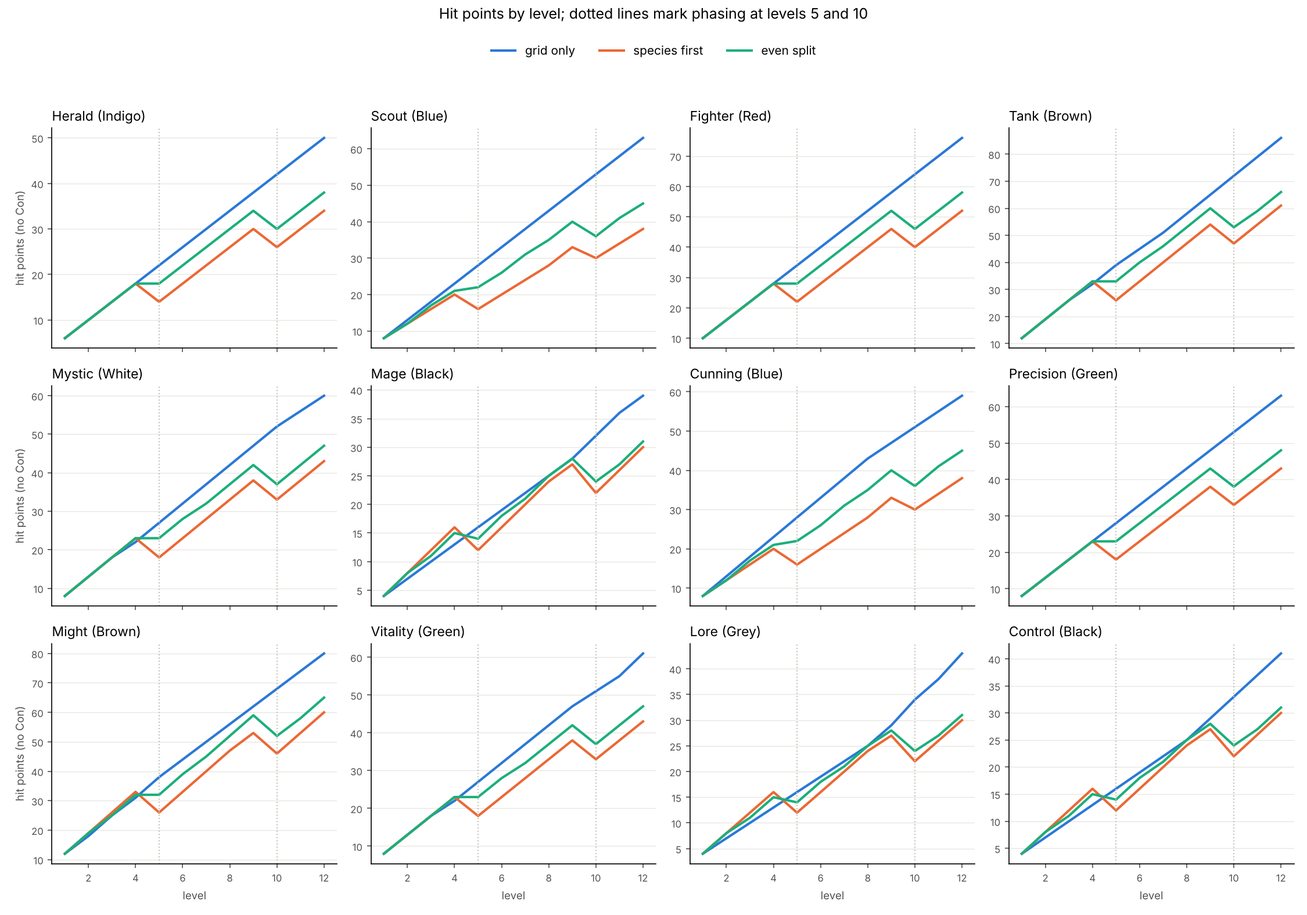
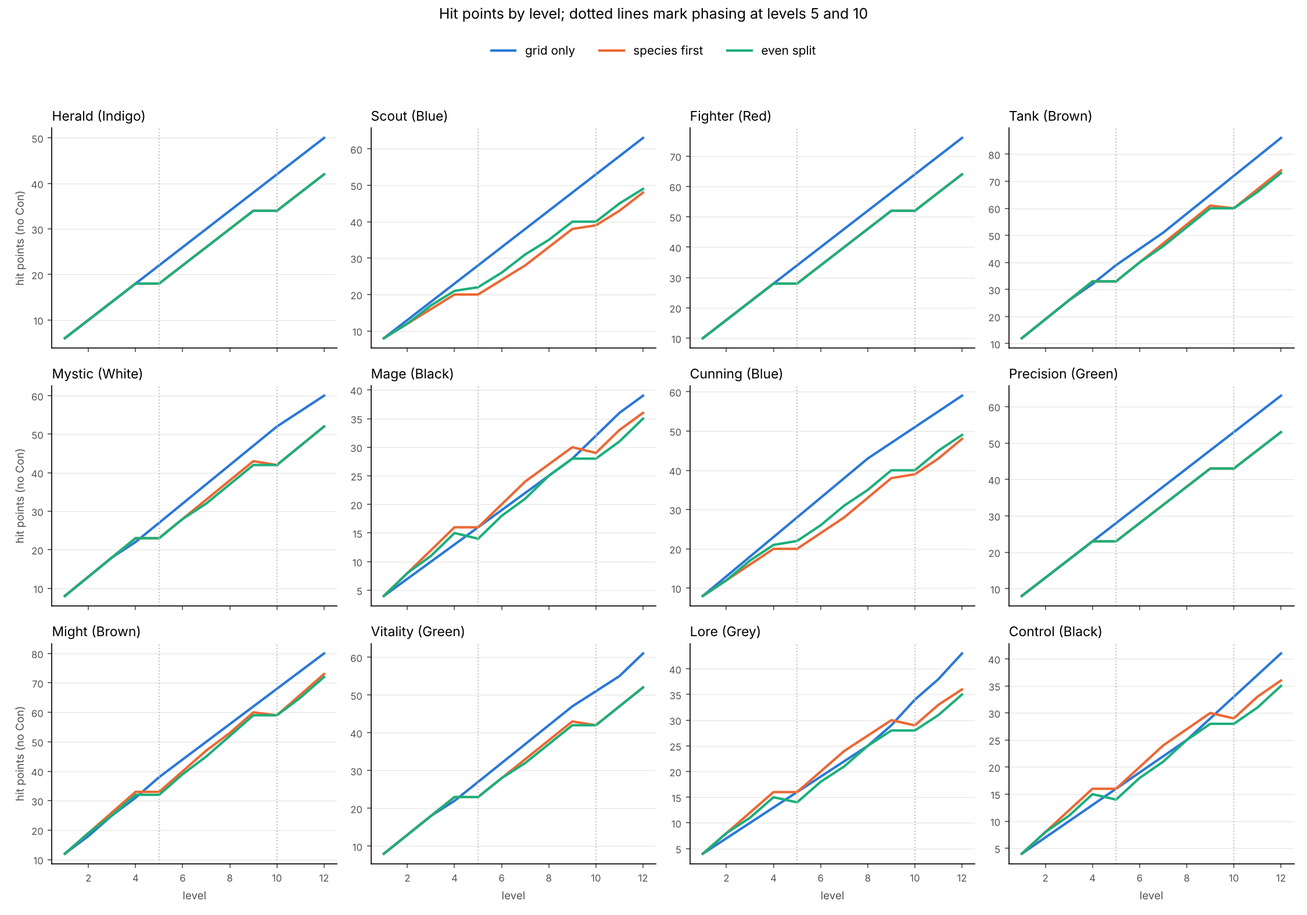
Phasing loses one species ring (replaces halving); power curves rerun
Claude-Session: https://claude.ai/code/session_014HRxeLr7e6EW9qyhZxDWju

diff --git a/canon/analysis/power_curves.py b/canon/analysis/power_curves.py
@@ -7,8 +7,9 @@ power-curves.md (tables) and power-curves.png (small multiples).
 Model (simple, PROPOSED):
 - Level 1: the kit tile and species ring 1 (the base form, no Hit Die).
 - Each level-up: one point, on the grid or the species wheel (rings 2-6).
-- Phasing at 5 and 10 (after that level's point): species points beyond
-  ring 1 are halved, rounded up, and reinvested in the new colour. The new
+- Phasing at 5 and 10 (after that level's point): the character loses one
+  species ring (Troy, 2026-11-12; was halving) and reinvests the rest in the
+  new colour. The new
   colour is modelled with the same numbers, so only the halving shows. Lost
   rings take their Hit Dice, pools and bonuses with them.
 - Hit points: the kit's die in full at level 1, then the SRD fixed value
@@ -129,7 +130,7 @@ def simulate(name, strategy, levels=12, phases=(5, 10)):
                 if L % 2 == 0 and sp < 5: sp += 1
                 else: g += 1
         if L in phases:
-            sp = math.ceil(sp / 2)
+            sp = max(0, sp - 1)
         stats = [tile_stats(h) for h in order[:g]]
         hp = order and tile_stats(order[0])["hd"]
         hp += sum(s["hd"] / 2 + 1 for s in stats[1:])
@@ -142,13 +143,19 @@ def simulate(name, strategy, levels=12, phases=(5, 10)):
 
 
 ARCH = list(KITS) + list(HYBRIDS)
+FINDINGS = ["", "## Findings (Claude, 2026-11-12, one ring lost per phase)", "",
+    "1. **A gentle penalty.** With a phase every five levels, species-first and even-split characters hold **10 of 12** points at level 12 (grid-only keeps 12). Under the earlier halving rule they held 8 and 9.",
+    "2. **Hit points barely move on a phase:** the level's new point offsets the lost ring. At worst they dip by 1 (for example a Mage taking a d4 grid tile the level it loses a d6 ring).",
+    "3. **Bonuses keep pace:** by level 12, species investors have about the same ability +1s and Prof. Ups as grid-only builds; they trail mainly in Attack Up (usually 1 against 2).",
+    "4. **The penalty no longer depends on how much you invested:** losing one ring costs everyone the same, so party members who phase at different times stay within a couple of points of each other.",
+    "5. **Archetypes look alike in shape**; the differences are Hit Die size. The Mage line is the thinnest (39 HP at 12 grid-only, against a 2024 wizard's 50 without Con).", ""]
 STRATS = ["grid only", "species first", "even split"]
 
 if __name__ == "__main__":
     R = {(a, s): simulate(a, s) for a in ARCH for s in STRATS}
     out = ["# Power curves: grid vs species wheel, with phasing (PROPOSED analysis, 2026-11-12)", "",
            "Generated by `power_curves.py`; the model and its assumptions are in that file's docstring.",
-           "Phases at levels **5** and **10** (species points halved, rounded up). Rows show the state **after** that level's phase.",
+           "Phases at levels **5** and **10** (one species ring lost each time). Rows show the state **after** that level's phase.",
            "HP excludes Constitution. **+1s** = ability increases, **PU** = Prof. Up, **AU** = Attack Up. "
            "**Pts** = points still held (level 12 has 12 if nothing was lost).", ""]
     for a in ARCH:
@@ -173,12 +180,7 @@ if __name__ == "__main__":
         r = [R[(a, s)][0][-1] for s in STRATS]
         f = lambda k, fmt="{:.0f}": " / ".join(fmt.format(x[k]) for x in r)
         out.append(f"| {a} | {f('points')} | {f('hp')} | {f('abil')} | {f('prof')} | {f('atk')} |")
-    out += ["", "## Findings (Claude, 2026-11-12, for Troy)", "",
-            "1. **The phasing penalty is large at this rate.** Phasing every five levels, a species-first character holds **8 of 12** points at level 12, an even split **9**; grid-only keeps all 12. Each phase halves whatever is on the species wheel at that moment, so investing there right before a phase is the worst case.",
-            "2. **Hit points drop on phasing**, because lost rings take their Hit Dice: a species-first Herald goes from 18 HP at level 4 to 14 at level 5. That's unusual in D&D, where hit points don't go down on level-up.",
-            "3. **Bonuses fall behind.** By level 12 grid-only builds have 2 ability +1s, about 2 Prof. Ups and 2 Attack Ups; species-first builds have 1 of each.",
-            "4. **Parity holds only without phasing.** With no phase, six deep on either wheel is about even, as designed. The halving makes the species wheel a worse investment the more often a character phases.",
-            "5. **Archetypes look alike in shape**; the differences are Hit Die size. The Mage line is the thinnest (39 HP at 12 grid-only, against a 2024 wizard's 50 without Con).", ""]
+    out += FINDINGS
     open(os.path.join(HERE, "power-curves.md"), "w").write("\n".join(out) + "\n")
 
     import matplotlib.pyplot as plt

diff --git a/canon/analysis/power-curves.md b/canon/analysis/power-curves.md
@@ -1,7 +1,7 @@
 # Power curves: grid vs species wheel, with phasing (PROPOSED analysis, 2026-11-12)
 
 Generated by `power_curves.py`; the model and its assumptions are in that file's docstring.
-Phases at levels **5** and **10** (species points halved, rounded up). Rows show the state **after** that level's phase.
+Phases at levels **5** and **10** (one species ring lost each time). Rows show the state **after** that level's phase.
 HP excludes Constitution. **+1s** = ability increases, **PU** = Prof. Up, **AU** = Attack Up. **Pts** = points still held (level 12 has 12 if nothing was lost).
 
 ## Herald (kit, Indigo)
@@ -10,8 +10,8 @@ Grid path (grid only, in order): 11 → 201 → 301 → 402 → 318 → 423 → 
 | Strategy | L4 HP / ◆ / ★ / +1s / PU / AU / Pts | L5 (phased) | L9 | L10 (phased) | L12 |
 |---|---|---|---|---|---|
 | grid only | 18 / 0 / 16 / 1 / 0 / 0 / 4 | 22 / 0 / 20 / 1 / 0 / 0 / 5 | 38 / 5 / 31 / 1 / 1 / 1 / 9 | 42 / 5 / 35 / 1 / 1 / 2 / 10 | 50 / 5 / 43 / 2 / 2 / 2 / 12 |
-| species first | 18 / 6 / 10 / 1 / 1 / 0 / 4 | 14 / 4 / 8 / 0 / 1 / 0 / 3 | 30 / 10 / 18 / 1 / 1 / 1 / 7 | 26 / 6 / 18 / 1 / 1 / 0 / 6 | 34 / 10 / 22 / 1 / 1 / 1 / 8 |
-| even split | 18 / 4 / 12 / 0 / 1 / 0 / 4 | 18 / 2 / 14 / 0 / 0 / 0 / 4 | 34 / 6 / 26 / 2 / 1 / 0 / 8 | 30 / 4 / 24 / 1 / 1 / 0 / 7 | 38 / 8 / 28 / 2 / 2 / 0 / 9 |
+| species first | 18 / 6 / 10 / 1 / 1 / 0 / 4 | 18 / 6 / 10 / 1 / 1 / 0 / 4 | 34 / 10 / 22 / 1 / 1 / 1 / 8 | 34 / 8 / 24 / 2 / 1 / 0 / 8 | 42 / 10 / 30 / 2 / 1 / 1 / 10 |
+| even split | 18 / 4 / 12 / 0 / 1 / 0 / 4 | 18 / 2 / 14 / 0 / 0 / 0 / 4 | 34 / 6 / 26 / 2 / 1 / 0 / 8 | 34 / 6 / 26 / 2 / 1 / 0 / 8 | 42 / 10 / 30 / 2 / 2 / 0 / 10 |
 
 ## Scout (kit, Blue)
 Grid path (grid only, in order): 12 → 203 → 305 → 407 → 406 → 304 → 405 → 506 → 607 → 606 → 508 → 610
@@ -19,8 +19,8 @@ Grid path (grid only, in order): 12 → 203 → 305 → 407 → 406 → 304 → 
 | Strategy | L4 HP / ◆ / ★ / +1s / PU / AU / Pts | L5 (phased) | L9 | L10 (phased) | L12 |
 |---|---|---|---|---|---|
 | grid only | 23 / 0 / 16 / 0 / 1 / 0 / 4 | 28 / 0 / 20 / 1 / 1 / 0 / 5 | 48 / 0 / 36 / 1 / 2 / 1 / 9 | 53 / 0 / 40 / 2 / 2 / 1 / 10 | 63 / 0 / 48 / 2 / 2 / 2 / 12 |
-| species first | 20 / 6 / 10 / 1 / 1 / 0 / 4 | 16 / 4 / 8 / 0 / 1 / 0 / 3 | 33 / 10 / 18 / 1 / 1 / 1 / 7 | 30 / 6 / 18 / 1 / 1 / 0 / 6 | 38 / 10 / 22 / 1 / 1 / 1 / 8 |
-| even split | 21 / 4 / 12 / 0 / 1 / 0 / 4 | 22 / 2 / 14 / 0 / 0 / 0 / 4 | 40 / 6 / 26 / 2 / 2 / 0 / 8 | 36 / 4 / 24 / 1 / 2 / 0 / 7 | 45 / 6 / 30 / 2 / 2 / 0 / 9 |
+| species first | 20 / 6 / 10 / 1 / 1 / 0 / 4 | 20 / 6 / 10 / 1 / 1 / 0 / 4 | 38 / 10 / 22 / 1 / 1 / 1 / 8 | 39 / 8 / 24 / 1 / 2 / 0 / 8 | 48 / 10 / 30 / 2 / 2 / 1 / 10 |
+| even split | 21 / 4 / 12 / 0 / 1 / 0 / 4 | 22 / 2 / 14 / 0 / 0 / 0 / 4 | 40 / 6 / 26 / 2 / 2 / 0 / 8 | 40 / 6 / 26 / 2 / 2 / 0 / 8 | 49 / 8 / 32 / 2 / 2 / 0 / 10 |
 
 ## Fighter (kit, Red)
 Grid path (grid only, in order): 13 → 205 → 307 → 410 → 409 → 510 → 612 → 511 → 614 → 613 → 513 → 616
@@ -28,8 +28,8 @@ Grid path (grid only, in order): 13 → 205 → 307 → 410 → 409 → 510 → 
 | Strategy | L4 HP / ◆ / ★ / +1s / PU / AU / Pts | L5 (phased) | L9 | L10 (phased) | L12 |
 |---|---|---|---|---|---|
 | grid only | 28 / 0 / 8 / 1 / 0 / 0 / 4 | 34 / 0 / 10 / 1 / 0 / 0 / 5 | 58 / 0 / 18 / 2 / 0 / 2 / 9 | 64 / 0 / 20 / 2 / 1 / 2 / 10 | 76 / 0 / 23 / 2 / 1 / 3 / 12 |
-| species first | 28 / 0 / 11 / 1 / 1 / 0 / 4 | 22 / 0 / 8 / 0 / 1 / 0 / 3 | 46 / 0 / 19 / 1 / 1 / 1 / 7 | 40 / 0 / 15 / 1 / 1 / 0 / 6 | 52 / 0 / 21 / 1 / 1 / 1 / 8 |
-| even split | 28 / 0 / 10 / 0 / 1 / 0 / 4 | 28 / 0 / 9 / 0 / 0 / 0 / 4 | 52 / 0 / 19 / 2 / 1 / 0 / 8 | 46 / 0 / 16 / 1 / 1 / 0 / 7 | 58 / 0 / 21 / 2 / 1 / 1 / 9 |
+| species first | 28 / 0 / 11 / 1 / 1 / 0 / 4 | 28 / 0 / 11 / 1 / 1 / 0 / 4 | 52 / 0 / 21 / 1 / 1 / 1 / 8 | 52 / 0 / 20 / 2 / 1 / 0 / 8 | 64 / 0 / 25 / 2 / 1 / 1 / 10 |
+| even split | 28 / 0 / 10 / 0 / 1 / 0 / 4 | 28 / 0 / 9 / 0 / 0 / 0 / 4 | 52 / 0 / 19 / 2 / 1 / 0 / 8 | 52 / 0 / 19 / 2 / 1 / 0 / 8 | 64 / 0 / 24 / 2 / 1 / 1 / 10 |
 
 ## Tank (kit, Brown)
 Grid path (grid only, in order): 14 → 207 → 311 → 415 → 414 → 518 → 622 → 310 → 413 → 516 → 619 → 618
@@ -37,8 +37,8 @@ Grid path (grid only, in order): 14 → 207 → 311 → 415 → 414 → 518 → 
 | Strategy | L4 HP / ◆ / ★ / +1s / PU / AU / Pts | L5 (phased) | L9 | L10 (phased) | L12 |
 |---|---|---|---|---|---|
 | grid only | 32 / 3 / 0 / 0 / 1 / 0 / 4 | 39 / 4 / 0 / 1 / 1 / 0 / 5 | 65 / 8 / 0 / 1 / 1 / 1 / 9 | 72 / 8 / 0 / 1 / 1 / 2 / 10 | 86 / 8 / 0 / 2 / 2 / 2 / 12 |
-| species first | 33 / 3 / 3 / 1 / 1 / 0 / 4 | 26 / 2 / 2 / 0 / 1 / 0 / 3 | 54 / 5 / 5 / 1 / 1 / 1 / 7 | 47 / 4 / 3 / 1 / 1 / 0 / 6 | 61 / 6 / 5 / 1 / 1 / 1 / 8 |
-| even split | 33 / 2 / 2 / 0 / 1 / 0 / 4 | 33 / 2 / 1 / 0 / 0 / 0 / 4 | 60 / 7 / 3 / 2 / 2 / 0 / 8 | 53 / 6 / 2 / 1 / 2 / 0 / 7 | 66 / 9 / 3 / 2 / 2 / 0 / 9 |
+| species first | 33 / 3 / 3 / 1 / 1 / 0 / 4 | 33 / 3 / 3 / 1 / 1 / 0 / 4 | 61 / 6 / 5 / 1 / 1 / 1 / 8 | 60 / 7 / 4 / 1 / 2 / 0 / 8 | 74 / 9 / 5 / 2 / 2 / 1 / 10 |
+| even split | 33 / 2 / 2 / 0 / 1 / 0 / 4 | 33 / 2 / 1 / 0 / 0 / 0 / 4 | 60 / 7 / 3 / 2 / 2 / 0 / 8 | 60 / 7 / 3 / 2 / 2 / 0 / 8 | 73 / 10 / 4 / 2 / 2 / 0 / 10 |
 
 ## Mystic (kit, White)
 Grid path (grid only, in order): 15 → 209 → 314 → 419 → 418 → 313 → 417 → 521 → 625 → 624 → 523 → 628
@@ -46,8 +46,8 @@ Grid path (grid only, in order): 15 → 209 → 314 → 419 → 418 → 313 → 
 | Strategy | L4 HP / ◆ / ★ / +1s / PU / AU / Pts | L5 (phased) | L9 | L10 (phased) | L12 |
 |---|---|---|---|---|---|
 | grid only | 22 / 16 / 0 / 0 / 1 / 0 / 4 | 27 / 20 / 0 / 1 / 1 / 0 / 5 | 47 / 36 / 0 / 1 / 2 / 1 / 9 | 52 / 40 / 0 / 2 / 2 / 1 / 10 | 60 / 48 / 0 / 2 / 2 / 2 / 12 |
-| species first | 23 / 13 / 3 / 1 / 1 / 0 / 4 | 18 / 10 / 2 / 0 / 1 / 0 / 3 | 38 / 23 / 5 / 1 / 1 / 1 / 7 | 33 / 21 / 3 / 1 / 1 / 0 / 6 | 43 / 27 / 5 / 1 / 1 / 1 / 8 |
-| even split | 23 / 14 / 2 / 0 / 1 / 0 / 4 | 23 / 15 / 1 / 0 / 0 / 0 / 4 | 42 / 29 / 3 / 2 / 2 / 0 / 8 | 37 / 26 / 2 / 1 / 2 / 0 / 7 | 47 / 33 / 3 / 2 / 2 / 0 / 9 |
+| species first | 23 / 13 / 3 / 1 / 1 / 0 / 4 | 23 / 13 / 3 / 1 / 1 / 0 / 4 | 43 / 27 / 5 / 1 / 1 / 1 / 8 | 42 / 28 / 4 / 1 / 2 / 0 / 8 | 52 / 35 / 5 / 2 / 2 / 1 / 10 |
+| even split | 23 / 14 / 2 / 0 / 1 / 0 / 4 | 23 / 15 / 1 / 0 / 0 / 0 / 4 | 42 / 29 / 3 / 2 / 2 / 0 / 8 | 42 / 29 / 3 / 2 / 2 / 0 / 8 | 52 / 36 / 4 / 2 / 2 / 0 / 10 |
 
 ## Mage (kit, Black)
 Grid path (grid only, in order): 16 → 211 → 316 → 422 → 421 → 526 → 631 → 630 → 420 → 524 → 629 → 632
@@ -55,8 +55,8 @@ Grid path (grid only, in order): 16 → 211 → 316 → 422 → 421 → 526 → 
 | Strategy | L4 HP / ◆ / ★ / +1s / PU / AU / Pts | L5 (phased) | L9 | L10 (phased) | L12 |
 |---|---|---|---|---|---|
 | grid only | 13 / 20 / 0 / 1 / 0 / 0 / 4 | 16 / 25 / 0 / 1 / 0 / 0 / 5 | 28 / 45 / 0 / 2 / 1 / 1 / 9 | 32 / 50 / 0 / 2 / 1 / 1 / 10 | 39 / 60 / 0 / 2 / 1 / 1 / 12 |
-| species first | 16 / 17 / 0 / 1 / 1 / 0 / 4 | 12 / 13 / 0 / 0 / 1 / 0 / 3 | 27 / 30 / 0 / 1 / 1 / 1 / 7 | 22 / 27 / 0 / 1 / 1 / 0 / 6 | 30 / 35 / 0 / 1 / 1 / 1 / 8 |
-| even split | 15 / 18 / 0 / 0 / 1 / 0 / 4 | 14 / 19 / 0 / 0 / 0 / 0 / 4 | 28 / 37 / 0 / 2 / 1 / 0 / 8 | 24 / 33 / 0 / 1 / 1 / 0 / 7 | 31 / 42 / 0 / 2 / 1 / 1 / 9 |
+| species first | 16 / 17 / 0 / 1 / 1 / 0 / 4 | 16 / 17 / 0 / 1 / 1 / 0 / 4 | 30 / 35 / 0 / 1 / 1 / 1 / 8 | 29 / 36 / 0 / 2 / 1 / 0 / 8 | 36 / 45 / 0 / 2 / 1 / 1 / 10 |
+| even split | 15 / 18 / 0 / 0 / 1 / 0 / 4 | 14 / 19 / 0 / 0 / 0 / 0 / 4 | 28 / 37 / 0 / 2 / 1 / 0 / 8 | 28 / 37 / 0 / 2 / 1 / 0 / 8 | 35 / 46 / 0 / 2 / 1 / 1 / 10 |
 
 ## Cunning (hybrid, Blue)
 Grid path (grid only, in order): 12 → 203 → 304 → 406 → 405 → 506 → 607 → 606 → 202 → 302 → 403 → 402
@@ -64,8 +64,8 @@ Grid path (grid only, in order): 12 → 203 → 304 → 406 → 405 → 506 → 
 | Strategy | L4 HP / ◆ / ★ / +1s / PU / AU / Pts | L5 (phased) | L9 | L10 (phased) | L12 |
 |---|---|---|---|---|---|
 | grid only | 23 / 0 / 16 / 1 / 0 / 0 / 4 | 28 / 0 / 20 / 1 / 0 / 0 / 5 | 47 / 0 / 36 / 2 / 1 / 1 / 9 | 51 / 0 / 40 / 2 / 1 / 1 / 10 | 59 / 0 / 48 / 3 / 2 / 1 / 12 |
-| species first | 20 / 6 / 10 / 1 / 1 / 0 / 4 | 16 / 4 / 8 / 0 / 1 / 0 / 3 | 33 / 10 / 18 / 1 / 1 / 1 / 7 | 30 / 6 / 18 / 1 / 1 / 0 / 6 | 38 / 10 / 22 / 1 / 1 / 1 / 8 |
-| even split | 21 / 4 / 12 / 0 / 1 / 0 / 4 | 22 / 2 / 14 / 0 / 0 / 0 / 4 | 40 / 6 / 26 / 2 / 1 / 0 / 8 | 36 / 4 / 24 / 1 / 1 / 0 / 7 | 45 / 6 / 30 / 2 / 1 / 1 / 9 |
+| species first | 20 / 6 / 10 / 1 / 1 / 0 / 4 | 20 / 6 / 10 / 1 / 1 / 0 / 4 | 38 / 10 / 22 / 1 / 1 / 1 / 8 | 39 / 8 / 24 / 2 / 1 / 0 / 8 | 48 / 10 / 30 / 2 / 1 / 1 / 10 |
+| even split | 21 / 4 / 12 / 0 / 1 / 0 / 4 | 22 / 2 / 14 / 0 / 0 / 0 / 4 | 40 / 6 / 26 / 2 / 1 / 0 / 8 | 40 / 6 / 26 / 2 / 1 / 0 / 8 | 49 / 8 / 32 / 2 / 1 / 1 / 10 |
 
 ## Precision (hybrid, Green)
 Grid path (grid only, in order): 12 → 204 → 203 → 305 → 407 → 406 → 304 → 405 → 506 → 607 → 508 → 610
@@ -73,8 +73,8 @@ Grid path (grid only, in order): 12 → 204 → 203 → 305 → 407 → 406 → 
 | Strategy | L4 HP / ◆ / ★ / +1s / PU / AU / Pts | L5 (phased) | L9 | L10 (phased) | L12 |
 |---|---|---|---|---|---|
 | grid only | 23 / 0 / 16 / 0 / 0 / 0 / 4 | 28 / 0 / 20 / 0 / 1 / 0 / 5 | 48 / 0 / 36 / 1 / 1 / 1 / 9 | 53 / 0 / 40 / 1 / 2 / 1 / 10 | 63 / 0 / 48 / 1 / 2 / 2 / 12 |
-| species first | 23 / 6 / 10 / 1 / 1 / 0 / 4 | 18 / 4 / 8 / 0 / 1 / 0 / 3 | 38 / 10 / 18 / 1 / 1 / 1 / 7 | 33 / 6 / 18 / 1 / 1 / 0 / 6 | 43 / 10 / 22 / 1 / 1 / 1 / 8 |
-| even split | 23 / 4 / 12 / 0 / 1 / 0 / 4 | 23 / 2 / 14 / 0 / 0 / 0 / 4 | 43 / 6 / 26 / 1 / 2 / 0 / 8 | 38 / 4 / 24 / 0 / 2 / 0 / 7 | 48 / 6 / 30 / 2 / 2 / 0 / 9 |
+| species first | 23 / 6 / 10 / 1 / 1 / 0 / 4 | 23 / 6 / 10 / 1 / 1 / 0 / 4 | 43 / 10 / 22 / 1 / 1 / 1 / 8 | 43 / 8 / 24 / 1 / 1 / 0 / 8 | 53 / 10 / 30 / 1 / 2 / 1 / 10 |
+| even split | 23 / 4 / 12 / 0 / 1 / 0 / 4 | 23 / 2 / 14 / 0 / 0 / 0 / 4 | 43 / 6 / 26 / 1 / 2 / 0 / 8 | 43 / 6 / 26 / 1 / 2 / 0 / 8 | 53 / 8 / 32 / 2 / 2 / 0 / 10 |
 
 ## Might (hybrid, Brown)
 Grid path (grid only, in order): 14 → 208 → 311 → 415 → 414 → 518 → 622 → 206 → 308 → 411 → 513 → 616
@@ -82,8 +82,8 @@ Grid path (grid only, in order): 14 → 208 → 311 → 415 → 414 → 518 → 
 | Strategy | L4 HP / ◆ / ★ / +1s / PU / AU / Pts | L5 (phased) | L9 | L10 (phased) | L12 |
 |---|---|---|---|---|---|
 | grid only | 31 / 5 / 0 / 0 / 1 / 0 / 4 | 38 / 6 / 0 / 1 / 1 / 0 / 5 | 62 / 10 / 3 / 1 / 1 / 1 / 9 | 68 / 10 / 4 / 1 / 2 / 1 / 10 | 80 / 10 / 7 / 1 / 2 / 2 / 12 |
-| species first | 33 / 3 / 3 / 1 / 1 / 0 / 4 | 26 / 2 / 2 / 0 / 1 / 0 / 3 | 53 / 7 / 5 / 1 / 1 / 1 / 7 | 46 / 6 / 3 / 1 / 1 / 0 / 6 | 60 / 8 / 5 / 1 / 1 / 1 / 8 |
-| even split | 32 / 4 / 2 / 0 / 1 / 0 / 4 | 32 / 4 / 1 / 0 / 0 / 0 / 4 | 59 / 9 / 3 / 2 / 2 / 0 / 8 | 52 / 8 / 2 / 1 / 2 / 0 / 7 | 65 / 11 / 3 / 2 / 2 / 0 / 9 |
+| species first | 33 / 3 / 3 / 1 / 1 / 0 / 4 | 33 / 3 / 3 / 1 / 1 / 0 / 4 | 60 / 8 / 5 / 1 / 1 / 1 / 8 | 59 / 9 / 4 / 1 / 2 / 0 / 8 | 73 / 11 / 5 / 2 / 2 / 1 / 10 |
+| even split | 32 / 4 / 2 / 0 / 1 / 0 / 4 | 32 / 4 / 1 / 0 / 0 / 0 / 4 | 59 / 9 / 3 / 2 / 2 / 0 / 8 | 59 / 9 / 3 / 2 / 2 / 0 / 8 | 72 / 12 / 4 / 2 / 2 / 0 / 10 |
 
 ## Vitality (hybrid, Green)
 Grid path (grid only, in order): 15 → 209 → 314 → 419 → 418 → 313 → 417 → 521 → 625 → 523 → 628 → 208
@@ -91,8 +91,8 @@ Grid path (grid only, in order): 15 → 209 → 314 → 419 → 418 → 313 → 
 | Strategy | L4 HP / ◆ / ★ / +1s / PU / AU / Pts | L5 (phased) | L9 | L10 (phased) | L12 |
 |---|---|---|---|---|---|
 | grid only | 22 / 16 / 0 / 0 / 1 / 0 / 4 | 27 / 20 / 0 / 1 / 1 / 0 / 5 | 47 / 36 / 0 / 1 / 2 / 1 / 9 | 51 / 40 / 0 / 1 / 2 / 1 / 10 | 61 / 46 / 0 / 1 / 2 / 2 / 12 |
-| species first | 23 / 10 / 6 / 1 / 1 / 0 / 4 | 18 / 8 / 4 / 0 / 1 / 0 / 3 | 38 / 18 / 10 / 1 / 1 / 1 / 7 | 33 / 18 / 6 / 1 / 1 / 0 / 6 | 43 / 22 / 10 / 1 / 1 / 1 / 8 |
-| even split | 23 / 12 / 4 / 0 / 1 / 0 / 4 | 23 / 14 / 2 / 0 / 0 / 0 / 4 | 42 / 26 / 6 / 2 / 2 / 0 / 8 | 37 / 24 / 4 / 1 / 2 / 0 / 7 | 47 / 30 / 6 / 2 / 2 / 0 / 9 |
+| species first | 23 / 10 / 6 / 1 / 1 / 0 / 4 | 23 / 10 / 6 / 1 / 1 / 0 / 4 | 43 / 22 / 10 / 1 / 1 / 1 / 8 | 42 / 24 / 8 / 1 / 2 / 0 / 8 | 52 / 30 / 10 / 2 / 2 / 1 / 10 |
+| even split | 23 / 12 / 4 / 0 / 1 / 0 / 4 | 23 / 14 / 2 / 0 / 0 / 0 / 4 | 42 / 26 / 6 / 2 / 2 / 0 / 8 | 42 / 26 / 6 / 2 / 2 / 0 / 8 | 52 / 32 / 8 / 2 / 2 / 0 / 10 |
 
 ## Lore (hybrid, Grey)
 Grid path (grid only, in order): 16 → 211 → 316 → 422 → 421 → 526 → 631 → 630 → 210 → 314 → 419 → 418
@@ -100,8 +100,8 @@ Grid path (grid only, in order): 16 → 211 → 316 → 422 → 421 → 526 → 
 | Strategy | L4 HP / ◆ / ★ / +1s / PU / AU / Pts | L5 (phased) | L9 | L10 (phased) | L12 |
 |---|---|---|---|---|---|
 | grid only | 13 / 20 / 0 / 1 / 0 / 0 / 4 | 16 / 25 / 0 / 1 / 0 / 0 / 5 | 29 / 44 / 0 / 2 / 1 / 1 / 9 | 34 / 48 / 0 / 2 / 1 / 1 / 10 | 43 / 56 / 0 / 3 / 2 / 1 / 12 |
-| species first | 16 / 17 / 0 / 1 / 1 / 0 / 4 | 12 / 13 / 0 / 0 / 1 / 0 / 3 | 27 / 30 / 0 / 1 / 1 / 1 / 7 | 22 / 27 / 0 / 1 / 1 / 0 / 6 | 30 / 35 / 0 / 1 / 1 / 1 / 8 |
-| even split | 15 / 18 / 0 / 0 / 1 / 0 / 4 | 14 / 19 / 0 / 0 / 0 / 0 / 4 | 28 / 37 / 0 / 2 / 1 / 0 / 8 | 24 / 33 / 0 / 1 / 1 / 0 / 7 | 31 / 42 / 0 / 2 / 1 / 1 / 9 |
+| species first | 16 / 17 / 0 / 1 / 1 / 0 / 4 | 16 / 17 / 0 / 1 / 1 / 0 / 4 | 30 / 35 / 0 / 1 / 1 / 1 / 8 | 29 / 36 / 0 / 2 / 1 / 0 / 8 | 36 / 45 / 0 / 2 / 1 / 1 / 10 |
+| even split | 15 / 18 / 0 / 0 / 1 / 0 / 4 | 14 / 19 / 0 / 0 / 0 / 0 / 4 | 28 / 37 / 0 / 2 / 1 / 0 / 8 | 28 / 37 / 0 / 2 / 1 / 0 / 8 | 35 / 46 / 0 / 2 / 1 / 1 / 10 |
 
 ## Control (hybrid, Black)
 Grid path (grid only, in order): 16 → 211 → 316 → 422 → 421 → 526 → 631 → 630 → 528 → 634 → 633 → 212
@@ -109,31 +109,31 @@ Grid path (grid only, in order): 16 → 211 → 316 → 422 → 421 → 526 → 
 | Strategy | L4 HP / ◆ / ★ / +1s / PU / AU / Pts | L5 (phased) | L9 | L10 (phased) | L12 |
 |---|---|---|---|---|---|
 | grid only | 13 / 20 / 0 / 1 / 0 / 0 / 4 | 16 / 25 / 0 / 1 / 0 / 0 / 5 | 29 / 44 / 1 / 2 / 1 / 1 / 9 | 33 / 46 / 3 / 2 / 1 / 2 / 10 | 41 / 52 / 6 / 2 / 1 / 2 / 12 |
-| species first | 16 / 17 / 0 / 1 / 1 / 0 / 4 | 12 / 13 / 0 / 0 / 1 / 0 / 3 | 27 / 30 / 0 / 1 / 1 / 1 / 7 | 22 / 27 / 0 / 1 / 1 / 0 / 6 | 30 / 35 / 0 / 1 / 1 / 1 / 8 |
-| even split | 15 / 18 / 0 / 0 / 1 / 0 / 4 | 14 / 19 / 0 / 0 / 0 / 0 / 4 | 28 / 37 / 0 / 2 / 1 / 0 / 8 | 24 / 33 / 0 / 1 / 1 / 0 / 7 | 31 / 42 / 0 / 2 / 1 / 1 / 9 |
+| species first | 16 / 17 / 0 / 1 / 1 / 0 / 4 | 16 / 17 / 0 / 1 / 1 / 0 / 4 | 30 / 35 / 0 / 1 / 1 / 1 / 8 | 29 / 36 / 0 / 2 / 1 / 0 / 8 | 36 / 45 / 0 / 2 / 1 / 1 / 10 |
+| even split | 15 / 18 / 0 / 0 / 1 / 0 / 4 | 14 / 19 / 0 / 0 / 0 / 0 / 4 | 28 / 37 / 0 / 2 / 1 / 0 / 8 | 28 / 37 / 0 / 2 / 1 / 0 / 8 | 35 / 46 / 0 / 2 / 1 / 1 / 10 |
 
 ## Summary at level 12
 
 | Archetype | Pts held (grid only / species first / even) | HP | +1s | Prof. Up | Attack Up |
 |---|---|---|---|---|---|
-| Herald | 12 / 8 / 9 | 50 / 34 / 38 | 2 / 1 / 2 | 2 / 1 / 2 | 2 / 1 / 0 |
-| Scout | 12 / 8 / 9 | 63 / 38 / 45 | 2 / 1 / 2 | 2 / 1 / 2 | 2 / 1 / 0 |
-| Fighter | 12 / 8 / 9 | 76 / 52 / 58 | 2 / 1 / 2 | 1 / 1 / 1 | 3 / 1 / 1 |
-| Tank | 12 / 8 / 9 | 86 / 61 / 66 | 2 / 1 / 2 | 2 / 1 / 2 | 2 / 1 / 0 |
-| Mystic | 12 / 8 / 9 | 60 / 43 / 47 | 2 / 1 / 2 | 2 / 1 / 2 | 2 / 1 / 0 |
-| Mage | 12 / 8 / 9 | 39 / 30 / 31 | 2 / 1 / 2 | 1 / 1 / 1 | 1 / 1 / 1 |
-| Cunning | 12 / 8 / 9 | 59 / 38 / 45 | 3 / 1 / 2 | 2 / 1 / 1 | 1 / 1 / 1 |
-| Precision | 12 / 8 / 9 | 63 / 43 / 48 | 1 / 1 / 2 | 2 / 1 / 2 | 2 / 1 / 0 |
-| Might | 12 / 8 / 9 | 80 / 60 / 65 | 1 / 1 / 2 | 2 / 1 / 2 | 2 / 1 / 0 |
-| Vitality | 12 / 8 / 9 | 61 / 43 / 47 | 1 / 1 / 2 | 2 / 1 / 2 | 2 / 1 / 0 |
-| Lore | 12 / 8 / 9 | 43 / 30 / 31 | 3 / 1 / 2 | 2 / 1 / 1 | 1 / 1 / 1 |
-| Control | 12 / 8 / 9 | 41 / 30 / 31 | 2 / 1 / 2 | 1 / 1 / 1 | 2 / 1 / 1 |
+| Herald | 12 / 10 / 10 | 50 / 42 / 42 | 2 / 2 / 2 | 2 / 1 / 2 | 2 / 1 / 0 |
+| Scout | 12 / 10 / 10 | 63 / 48 / 49 | 2 / 2 / 2 | 2 / 2 / 2 | 2 / 1 / 0 |
+| Fighter | 12 / 10 / 10 | 76 / 64 / 64 | 2 / 2 / 2 | 1 / 1 / 1 | 3 / 1 / 1 |
+| Tank | 12 / 10 / 10 | 86 / 74 / 73 | 2 / 2 / 2 | 2 / 2 / 2 | 2 / 1 / 0 |
+| Mystic | 12 / 10 / 10 | 60 / 52 / 52 | 2 / 2 / 2 | 2 / 2 / 2 | 2 / 1 / 0 |
+| Mage | 12 / 10 / 10 | 39 / 36 / 35 | 2 / 2 / 2 | 1 / 1 / 1 | 1 / 1 / 1 |
+| Cunning | 12 / 10 / 10 | 59 / 48 / 49 | 3 / 2 / 2 | 2 / 1 / 1 | 1 / 1 / 1 |
+| Precision | 12 / 10 / 10 | 63 / 53 / 53 | 1 / 1 / 2 | 2 / 2 / 2 | 2 / 1 / 0 |
+| Might | 12 / 10 / 10 | 80 / 73 / 72 | 1 / 2 / 2 | 2 / 2 / 2 | 2 / 1 / 0 |
+| Vitality | 12 / 10 / 10 | 61 / 52 / 52 | 1 / 2 / 2 | 2 / 2 / 2 | 2 / 1 / 0 |
+| Lore | 12 / 10 / 10 | 43 / 36 / 35 | 3 / 2 / 2 | 2 / 1 / 1 | 1 / 1 / 1 |
+| Control | 12 / 10 / 10 | 41 / 36 / 35 | 2 / 2 / 2 | 1 / 1 / 1 | 2 / 1 / 1 |
 
-## Findings (Claude, 2026-11-12, for Troy)
+## Findings (Claude, 2026-11-12, one ring lost per phase)
 
-1. **The phasing penalty is large at this rate.** Phasing every five levels, a species-first character holds **8 of 12** points at level 12, an even split **9**; grid-only keeps all 12. Each phase halves whatever is on the species wheel at that moment, so investing there right before a phase is the worst case.
-2. **Hit points drop on phasing**, because lost rings take their Hit Dice: a species-first Herald goes from 18 HP at level 4 to 14 at level 5. That's unusual in D&D, where hit points don't go down on level-up.
-3. **Bonuses fall behind.** By level 12 grid-only builds have 2 ability +1s, about 2 Prof. Ups and 2 Attack Ups; species-first builds have 1 of each.
-4. **Parity holds only without phasing.** With no phase, six deep on either wheel is about even, as designed. The halving makes the species wheel a worse investment the more often a character phases.
+1. **A gentle penalty.** With a phase every five levels, species-first and even-split characters hold **10 of 12** points at level 12 (grid-only keeps 12). Under the earlier halving rule they held 8 and 9.
+2. **Hit points barely move on a phase:** the level's new point offsets the lost ring. At worst they dip by 1 (for example a Mage taking a d4 grid tile the level it loses a d6 ring).
+3. **Bonuses keep pace:** by level 12, species investors have about the same ability +1s and Prof. Ups as grid-only builds; they trail mainly in Attack Up (usually 1 against 2).
+4. **The penalty no longer depends on how much you invested:** losing one ring costs everyone the same, so party members who phase at different times stay within a couple of points of each other.
 5. **Archetypes look alike in shape**; the differences are Hit Die size. The Mage line is the thinnest (39 HP at 12 grid-only, against a 2024 wizard's 50 without Con).
 

diff --git a/canon/brainstorm-progression.md b/canon/brainstorm-progression.md
@@ -47,7 +47,7 @@ Written up from the voice transcript. One line in the transcript was attributed 
 These overturn parts of the brainstorm below.
 1. **Personality traits (reverting to the older rule):** an **Unphased** character has **three** personality traits and may **swap one trait per Long Rest** (CANON since 2026-10-21; Troy confirmed 2026-11-12). A **phased** character has **two traits and a colour**. On phasing you **keep one trait and gain another**, and your colour likely changes. You **cannot revert to Unphased**. You **keep your skill progress**.
 2. **No personality progression.** Traits are not something you invest in: there are only the **24 existing flat traits**, with no trait progression on level-up. *The personality tree below is retired.* So there are **two places to spend progress points**: the species wheel and the skills grid.
-3. **Phasing refund:** on phasing, take the points invested in the colour wheel, **halve them, rounding up**, and reinvest those in the new colour. *(Replaces "points come back" below.)*
+3. **Phasing refund:** on phasing you **lose one ring** of the colour wheel and reinvest the rest in the new colour *(Troy, 2026-11-12 midday, after the power curves; replaces the morning's halving rule, which lost a species-first character 4 of 12 points by level 12)*. It's gentler, and keeps a party balanced when members phase at different times.
 4. **Stat Up on ring 4 of the species wheel**, for every colour: **+2 to one ability, or +1 to two**, following the colour's affinity, with **no player choice**. Red: Strength +2. *(Claude, by the affinity list in the setting bible:)* Brown Con +1, Str +1; Yellow Int +1, Con +1; Green Dex +1, Con +1; Blue Dex +1, Cha +1; Indigo Cha +2; Black Int +1, Cha +1; Grey Int +1, Wis +1; White Wis +2.
    - *(Revised by Troy, voice, same morning:)* **+1, not +2.** Two-ability colours give **+1 to either, the player's choice**; one-ability colours (Red, Indigo, White) give +1 to theirs.
 5. **Ability increases on the skills grid** *(Troy, voice, 2026-11-12)*. With feats gone, the grid must also give ability increases: the 2024 rules give four or five chances (levels 4, 8, 12, 16 and the level-19 boon).
@@ -72,7 +72,7 @@ These overturn parts of the brainstorm below.
 
 ### What phasing does to each tree *(Troy)*
 
-- *(Superseded 2026-11-12: half the points come back, rounded up.)* **Form: points come back.** Whatever you had invested in the form tree is available to reinvest after the phase. Seven points in the Green branch, phased to White: reinvest them in White, and you may end up further along the form than a beginner. This is **gameable, on purpose**.
+- *(Superseded 2026-11-12: you lose one ring and reinvest the rest.)* **Form: points come back.** Whatever you had invested in the form tree is available to reinvest after the phase. Seven points in the Green branch, phased to White: reinvest them in White, and you may end up further along the form than a beginner. This is **gameable, on purpose**.
 - **Personality: the real penalty.** Everyone starts with two traits. On a phase you **keep one**. Anything that depended on the lost trait is **simply lost**, and anything that depended on the kept trait is **retained**. You partly keep your personality. No points come back, so it isn't gameable: nobody can force a phase just to switch branches. This **offsets the advantage of the form tree**.
 - **Learned skills: all kept.**
 

diff --git a/canon/setting-bible.md b/canon/setting-bible.md
@@ -57,7 +57,7 @@ When a PROPOSED item is confirmed or rejected, update its status here and add a 
   - The wheel is a colour order chosen by rule of cool; it no longer defines which elements oppose which.
   - **Retired:** the ten-form wheel's Marsh, Soil, Oxblood, Slate and Glacier. Soil's features passed to Brown and Slate's to Grey.
 - **CANON.** What triggers settling is **left to players' backstories**. It can be finding a calling (the myth's model), the influence of surroundings, or anything else they invent.
-- **CANON. Phasing:** something dramatic, traumatic or deadly can make a dragonborn **phase** from one form into another. They keep parts of their former personality and most of their memories. Rebirth and reincarnation are strong themes, echoing the myth, in which everything Azhi devoured "springs forth anew." Phasing **carries a penalty** so that players can't exploit it; the penalty is not yet designed. *(Progression, 2026-11-12, PROPOSED design in `canon/brainstorm-progression.md`: on phasing you keep one trait and gain another, keep your skill progress, and get back half your species-wheel points, rounded up, to reinvest.)*
+- **CANON. Phasing:** something dramatic, traumatic or deadly can make a dragonborn **phase** from one form into another. They keep parts of their former personality and most of their memories. Rebirth and reincarnation are strong themes, echoing the myth, in which everything Azhi devoured "springs forth anew." Phasing **carries a penalty** so that players can't exploit it; the penalty is not yet designed. *(Progression, 2026-11-12, PROPOSED design in `canon/brainstorm-progression.md`: on phasing you keep one trait and gain another, keep your skill progress, and lose one ring of the species wheel, reinvesting the rest.)*
 - **CANON.** There is **no return to Unphased** within the mechanics. The DM may allow it on rare occasions for narrative reasons.
 - **CANON. Gold and Silver dragonborn** are **super rare**. They are NPCs who can motivate plot, and there is no easy way for players to phase into them. Their species definitions should still exist, in case they become relevant. Reason (Troy): the Gold and Silver dragons generally don't take direct interest in the activities of those below.
 - **CANON (game design; revised 2026-10-24).** **Power budget: Unphased < every form.** All nine forms have **similar point totals** (about 17–18.5); the younger colours aren't held below the five.

diff --git a/canon/decisions.md b/canon/decisions.md
@@ -4,6 +4,7 @@ Newest first. One line per decision: what was decided, and why if a reason was g
 
 ## 2026-11-12
 
+- **Phasing penalty: lose one ring** (Troy): replaces this morning's halving. Gentler, and keeps a party balanced when members phase at different times. The power curves were rerun: species investors now hold 10 of 12 points at level 12 with a phase every five levels.
 - **Points and cap** (Troy, voice): one point per level-up, on either wheel; the Unphased spend theirs on the skills grid. No ability score cap (scores top out at 21 naturally).
 - **Ability increases** (Troy, voice): the species ring-4 Stat Up drops to **+1** (two-ability colours: the player chooses either). The skills grid gets twelve +1 tiles, one per kit on ring 4 (402 Cha, 406 Dex, 410 Str, 414 Con, 418 Wis, 422 Int) and one on ring 6 (636 Cha, 606 Dex, 612 Str, 618 Con, 624 Wis, 630 Int), each +1 to its kit's ability. Labels read "Int +1" etc., never "Stat Up". A focused build tops out at 21 (+5).
 - **Personality traits revert to the older rule** (Troy): Unphased have three traits and swap one per Long Rest (confirmed); phased have two and a colour; on phasing keep one trait and gain another; no return to Unphased; skill progress is kept.
